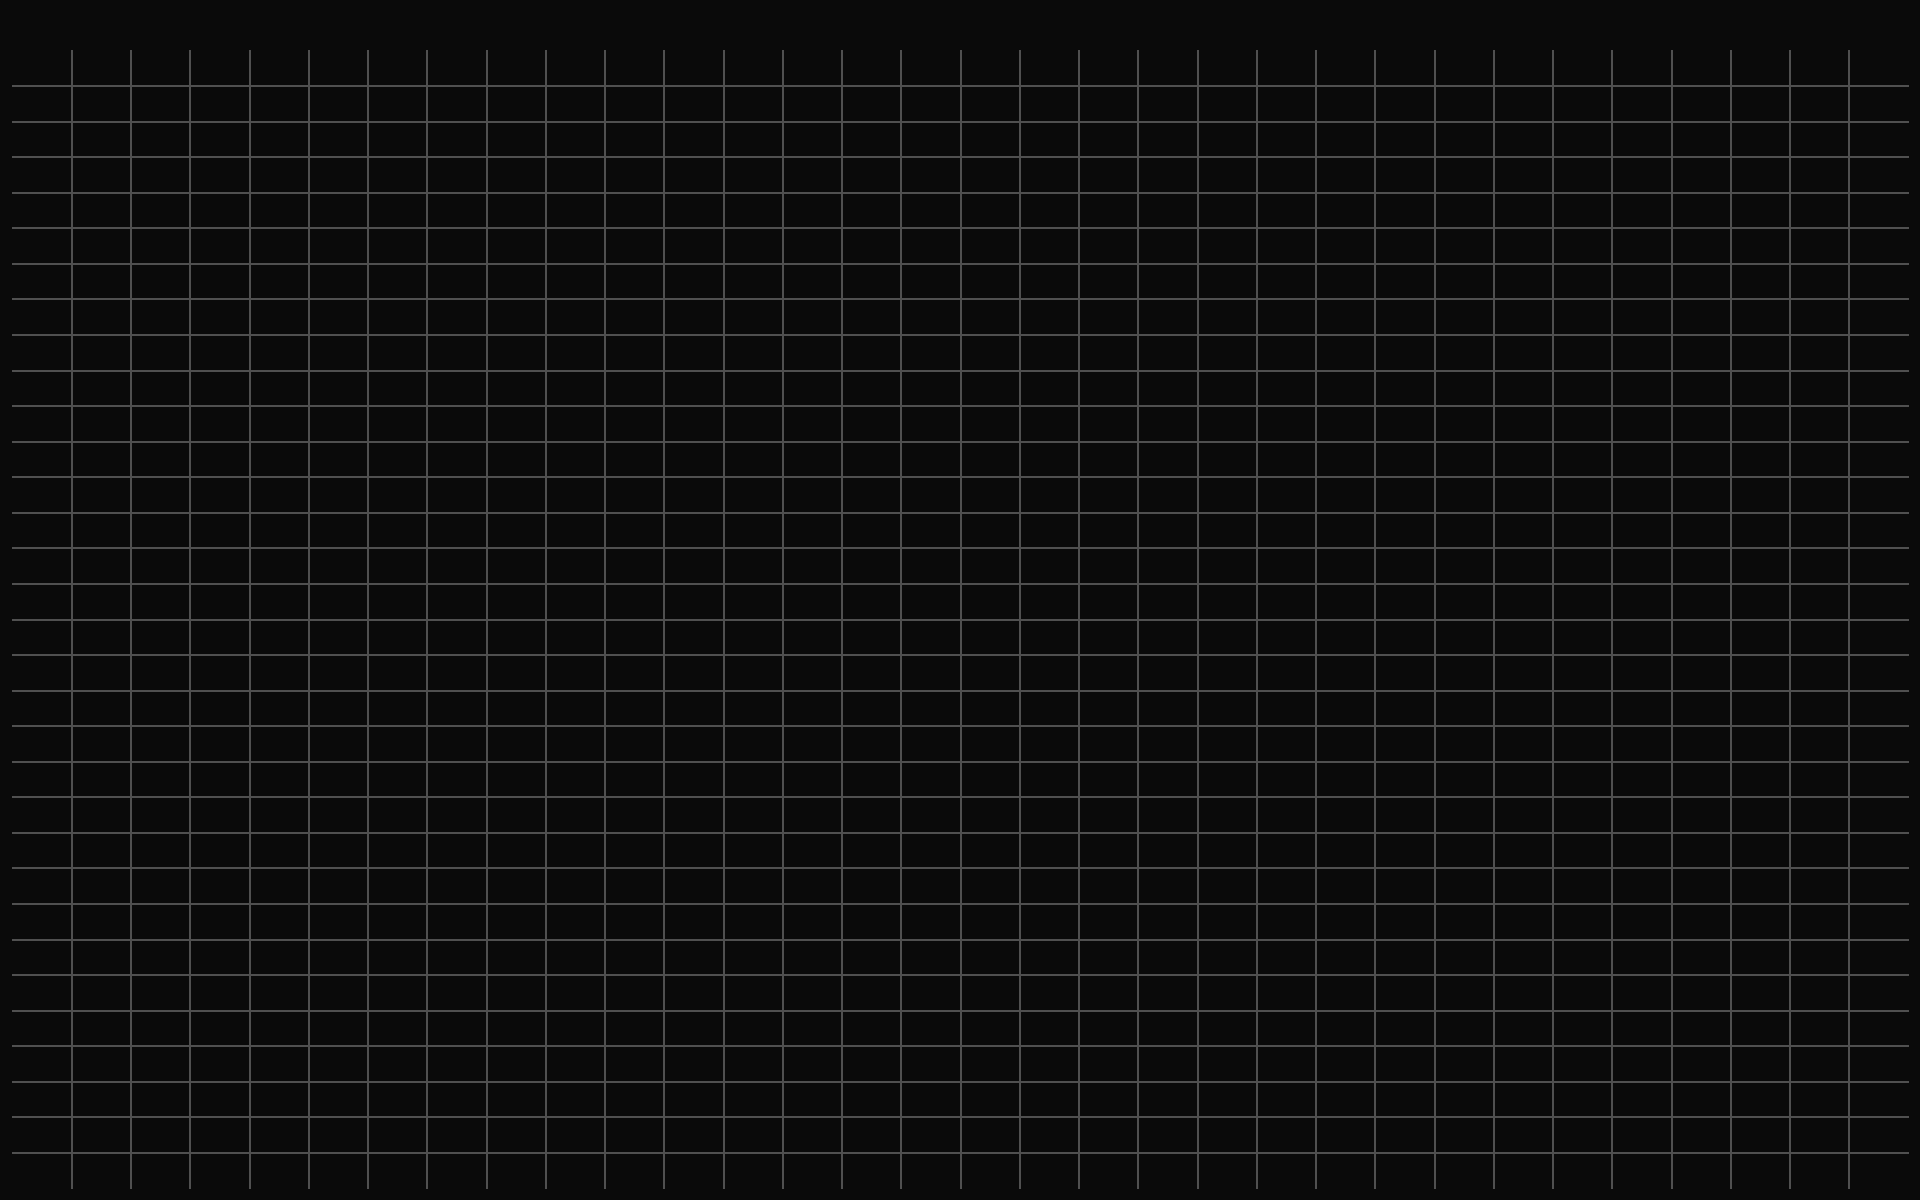
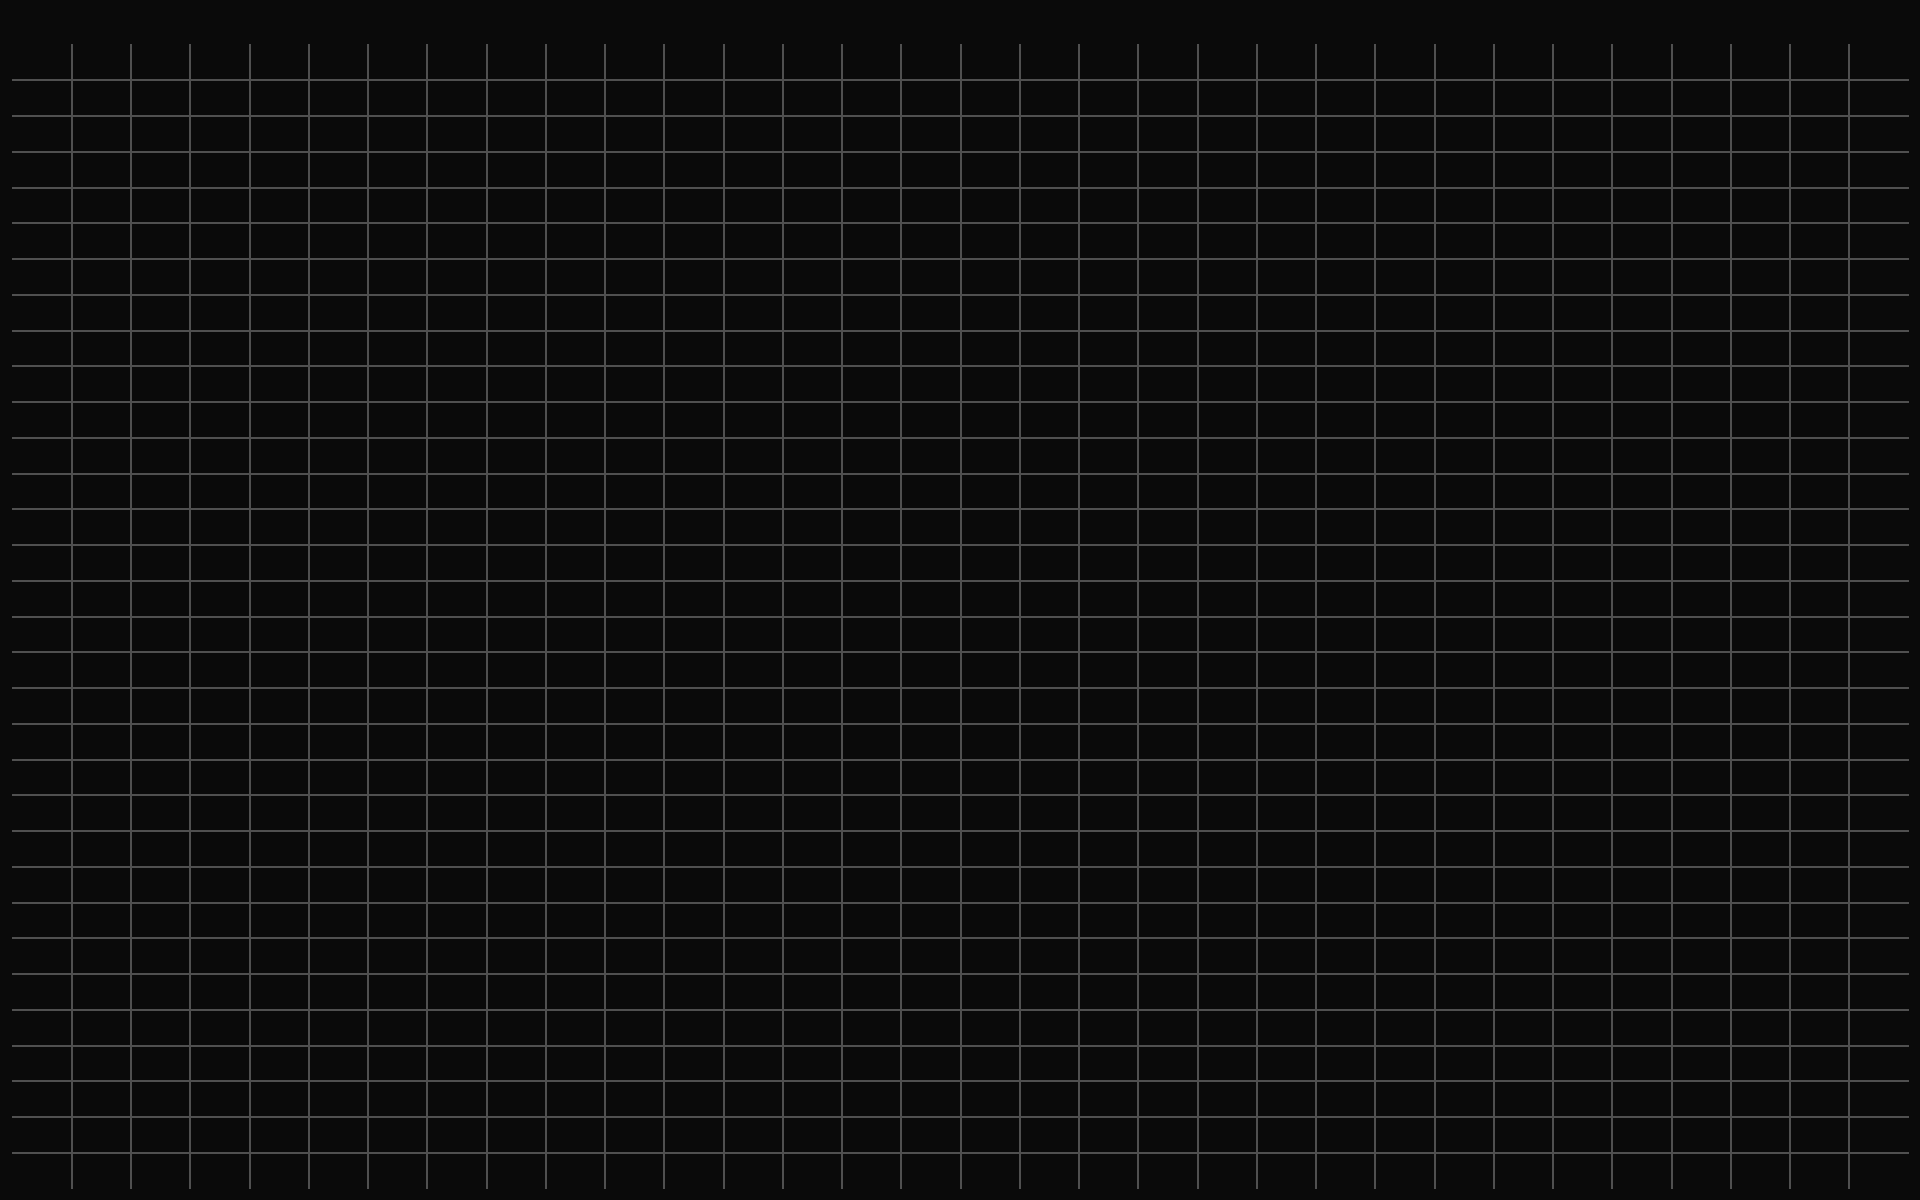
Update monitor bar heights and modify wallpaper assets
Adjusts the logical bar heights for monitors to improve accuracy:
- First monitor bar height updated from 38 to 48.
- Second monitor bar height updated from 38 to 32.

Also updates two wallpaper assets with new versions.

Changed region(s): [[0.0, 0.0617, 1.0, 0.7092], [0.0312, 0.7708, 0.9688, 0.8017]]

diff --git a/wallpapers/recursive_grid.py b/wallpapers/recursive_grid.py
@@ -9,16 +9,16 @@ MONITORS = [
         "width": 3840,
         "height": 2160,
         "scale": 1.5,
-        "bar_logical_height": 38,  # From "reserved: 0 38 0 0"
-        "gap_logical": 12,  # 12px visual gap (consistent across setup)
-        "line_width_base": 2,  # Base thickness of lines
+        "bar_logical_height": 48,
+        "gap_logical": 12,
+        "line_width_base": 2,
     },
     {
         "name": "eDP-1",
         "width": 1920,
         "height": 1200,
         "scale": 1.0,
-        "bar_logical_height": 38,  # From "reserved: 0 38 0 0"
+        "bar_logical_height": 32,
         "gap_logical": 12,
         "line_width_base": 2,
     },
